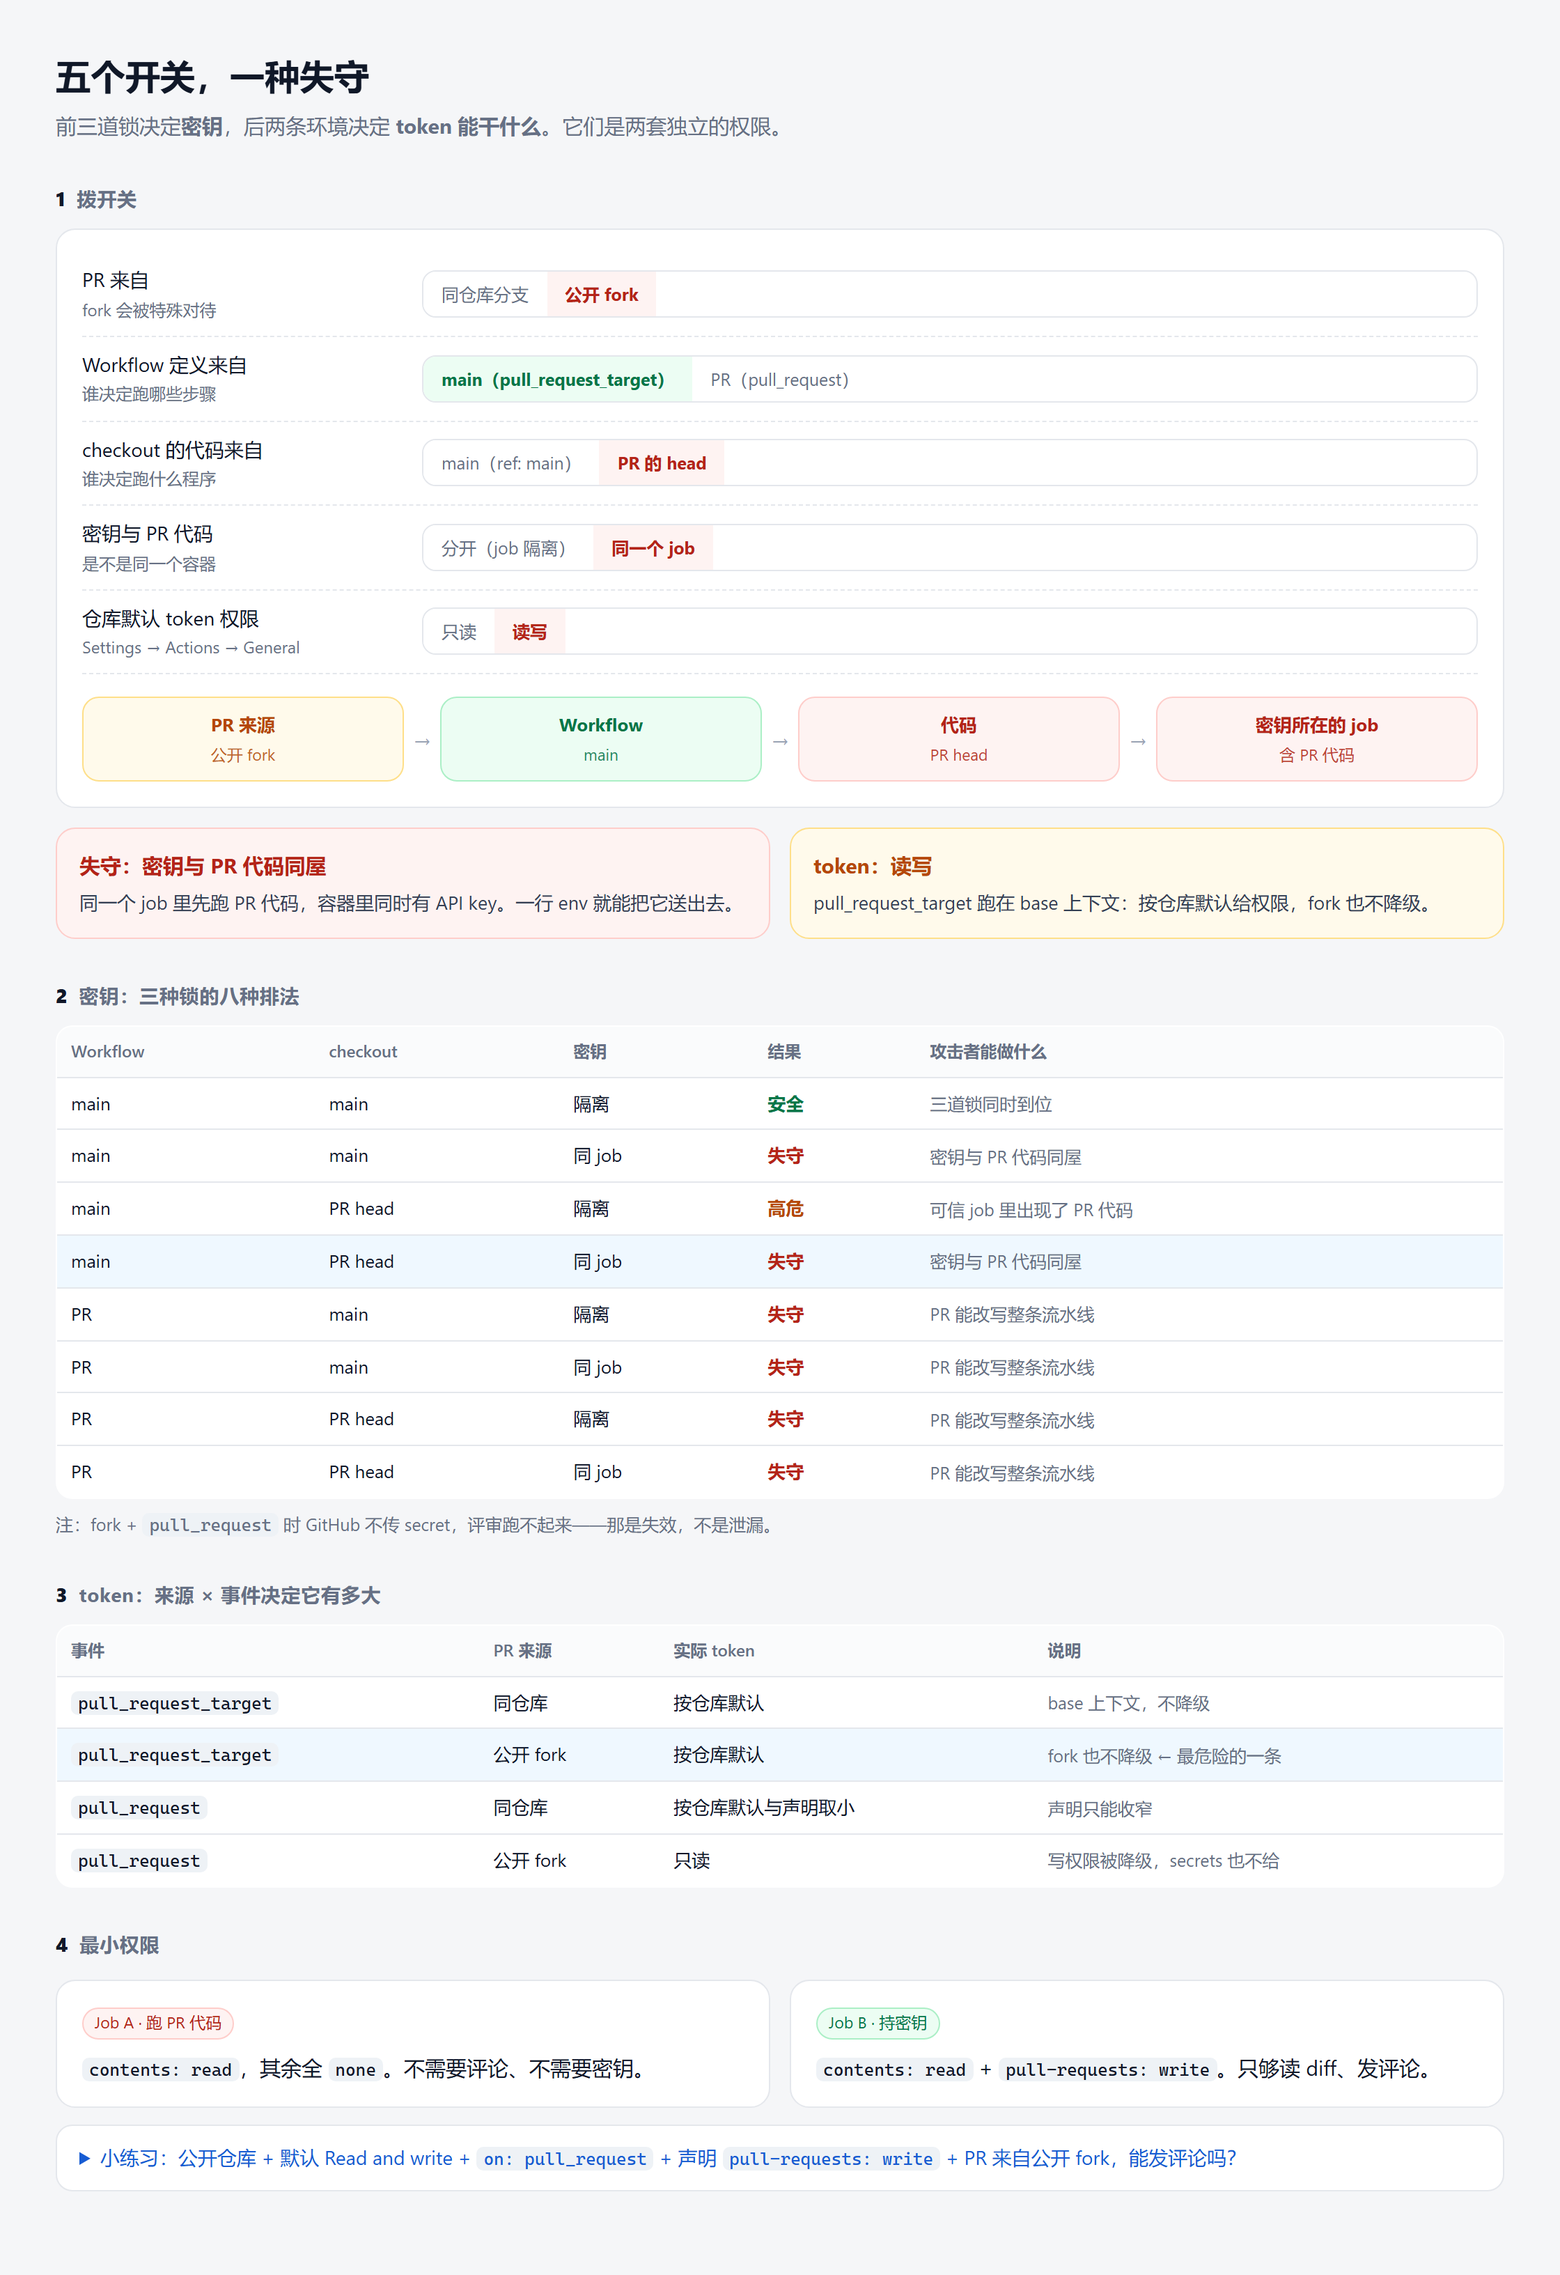
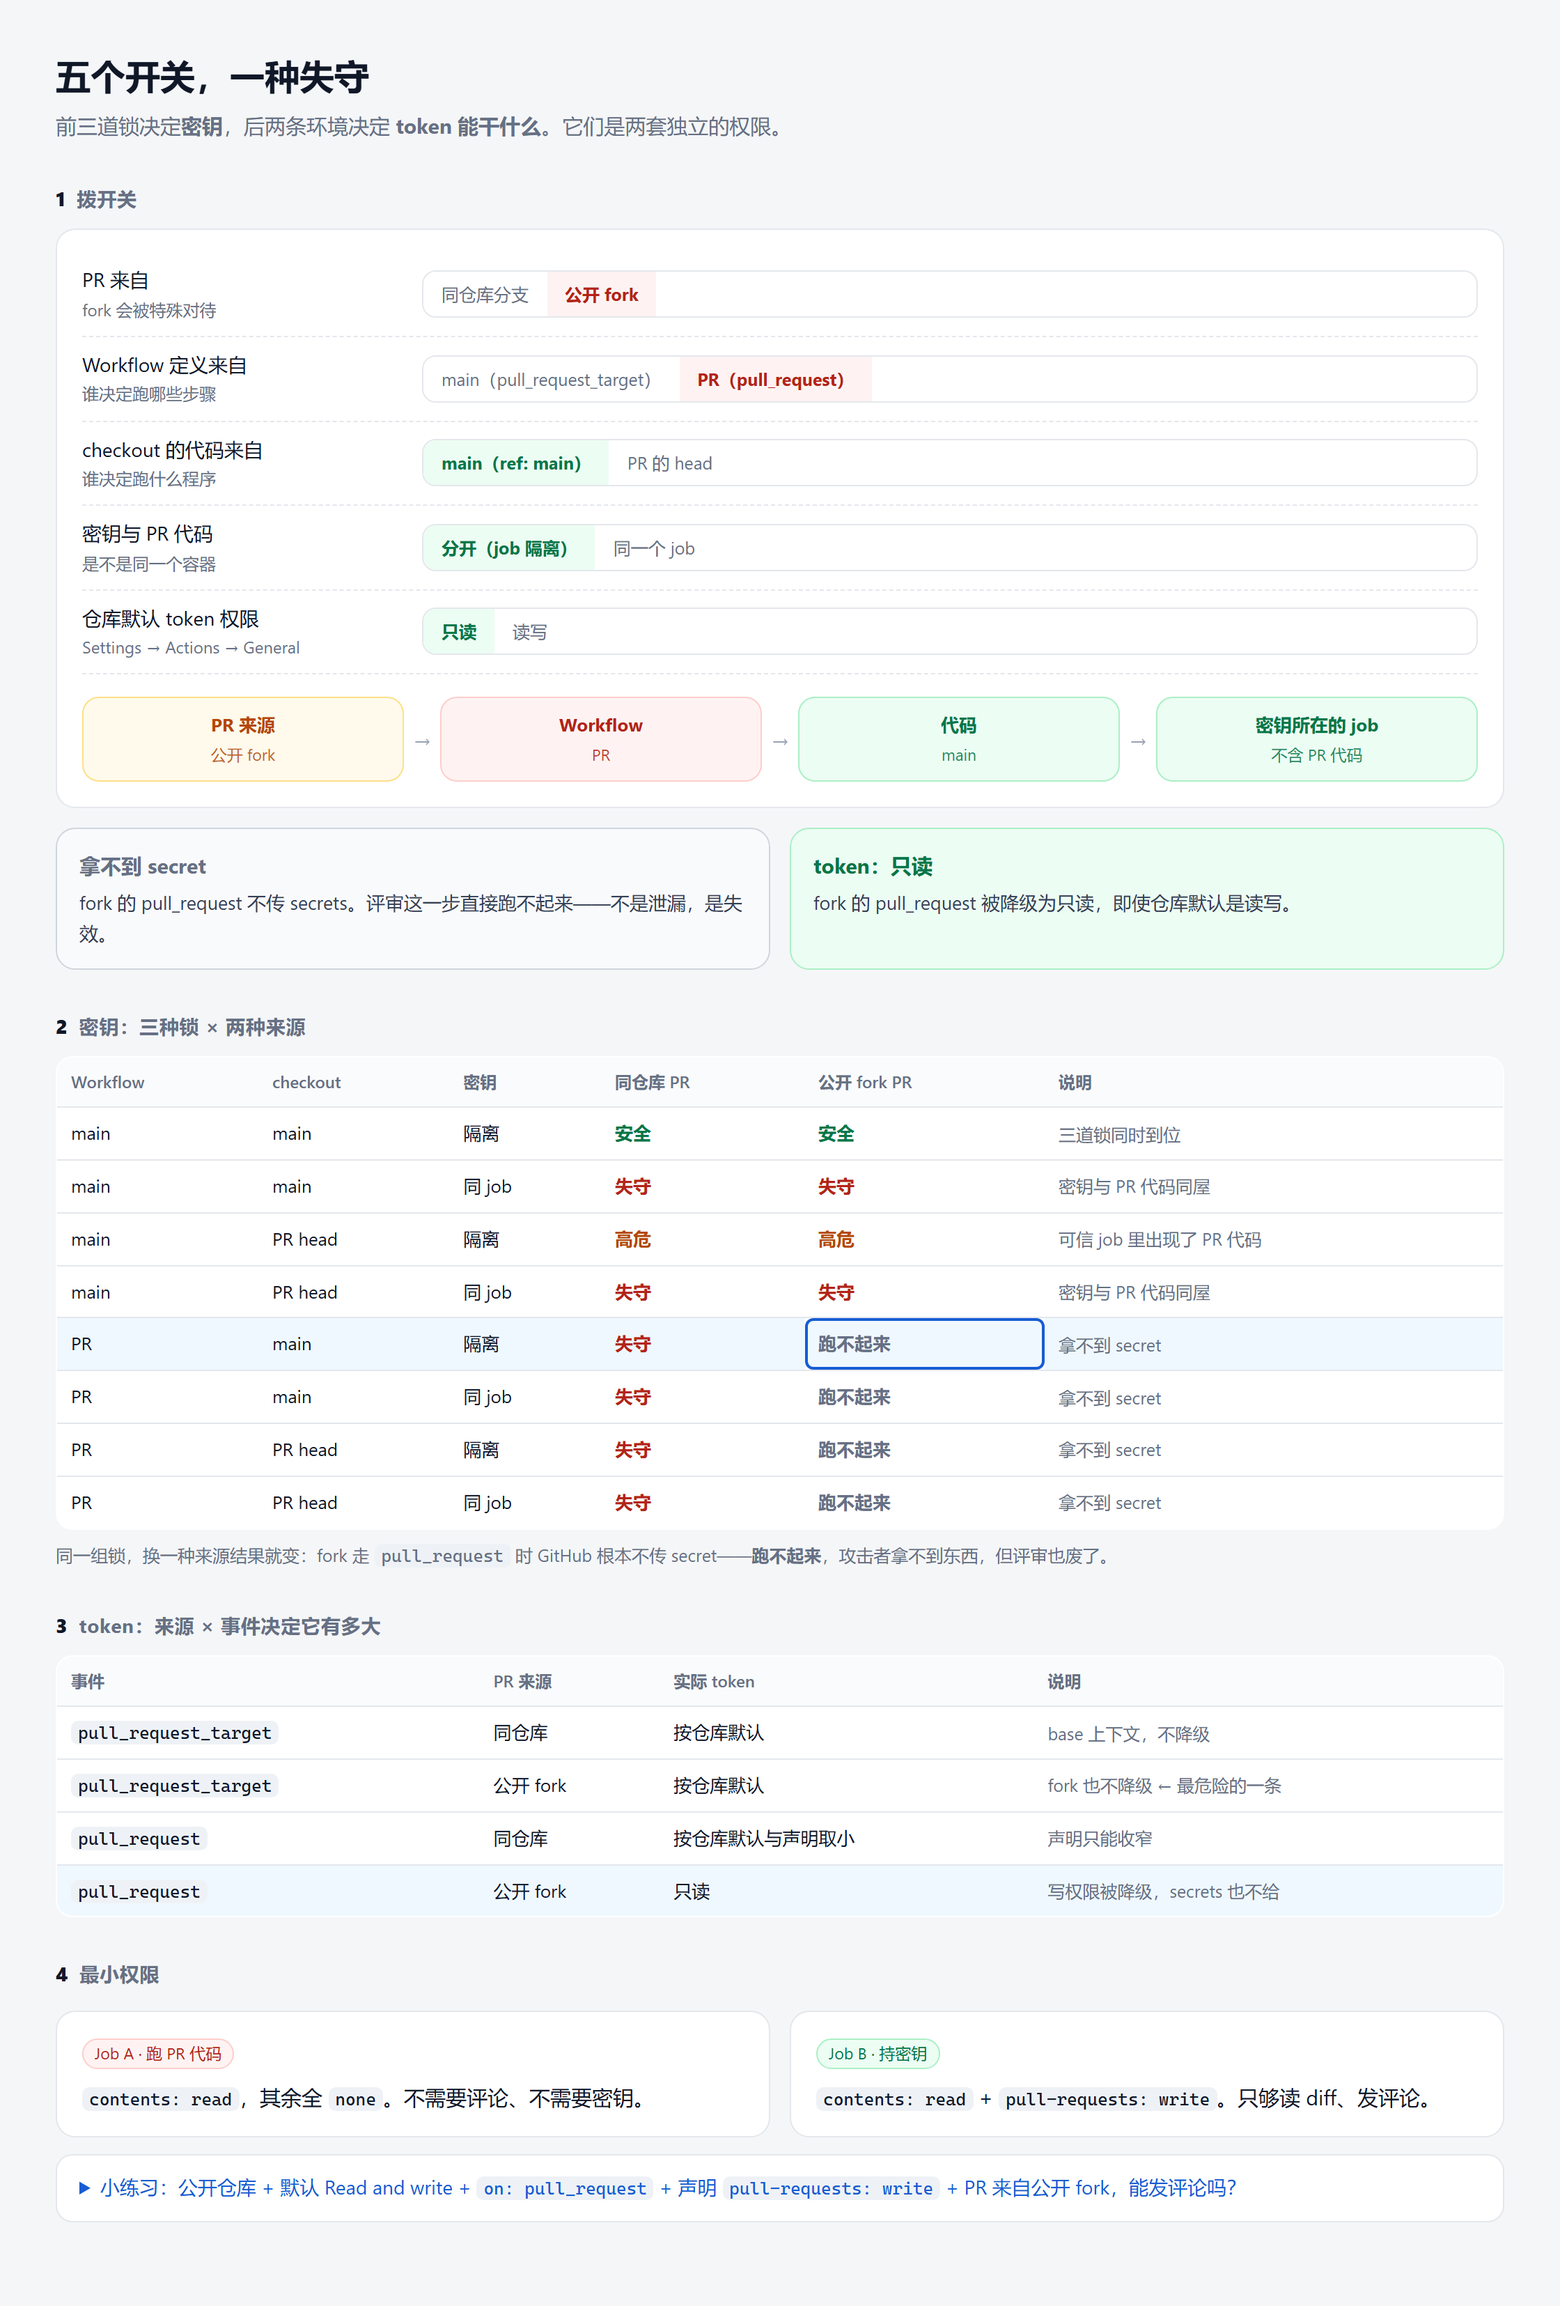
docs: show the fork case in the secret matrix instead of a footnote

diff --git a/docs/review-trust-switches.html b/docs/review-trust-switches.html
@@ -53,6 +53,7 @@
   th{background:#fafbfc;color:var(--muted);font-weight:600;font-size:12px}
   tr:last-child td{border-bottom:0}
   tr.hl td{background:var(--blue-bg)}
+  td.cur{box-shadow:inset 0 0 0 2px #175cd3;border-radius:6px}
   .c-safe{color:var(--green);font-weight:700}
   .c-risk{color:var(--amber);font-weight:700}
   .c-fatal{color:var(--red);font-weight:700}
@@ -120,12 +121,12 @@
     <div class="verdict" id="vToken"><h3>token</h3><p></p></div>
   </div>
 
-  <h2><b>2</b>密钥：三种锁的八种排法</h2>
+  <h2><b>2</b>密钥：三种锁 × 两种来源</h2>
   <table id="matrix">
-    <thead><tr><th>Workflow</th><th>checkout</th><th>密钥</th><th>结果</th><th>攻击者能做什么</th></tr></thead>
+    <thead><tr><th>Workflow</th><th>checkout</th><th>密钥</th><th>同仓库 PR</th><th>公开 fork PR</th><th>说明</th></tr></thead>
     <tbody></tbody>
   </table>
-  <p class="note" style="margin-top:8px">注：fork + <code>pull_request</code> 时 GitHub 不传 secret，评审跑不起来——那是失效，不是泄漏。</p>
+  <p class="note" style="margin-top:8px">同一组锁，换一种来源结果就变：fork 走 <code>pull_request</code> 时 GitHub 根本不传 secret——<strong>跑不起来</strong>，攻击者拿不到东西，但评审也废了。</p>
 
   <h2><b>3</b>token：来源 × 事件决定它有多大</h2>
   <table id="tokenTable">
@@ -221,7 +222,13 @@
     nS.querySelector('.nval').textContent = state.s ? '不含 PR 代码' : '含 PR 代码';
 
     document.querySelectorAll('#matrix tbody tr').forEach(tr => {
-      tr.classList.toggle('hl', tr.dataset.key === `${state.w}${state.c}${state.s}`);
+      const on = tr.dataset.key === `${state.w}${state.c}${state.s}`;
+      tr.classList.toggle('hl', on);
+      tr.querySelectorAll('td.res-same,td.res-fork').forEach(td => td.classList.remove('cur'));
+      if (on) {
+        const cell = tr.querySelector(state.o ? 'td.res-same' : 'td.res-fork');
+        if (cell) cell.classList.add('cur');
+      }
     });
     document.querySelectorAll('#tokenTable tbody tr').forEach(tr => {
       tr.classList.toggle('hl', tr.dataset.key === `${state.w}${state.o}`);
@@ -244,12 +251,14 @@
     const tbody = document.querySelector('#matrix tbody');
     const L = { w: ['main', 'PR'], c: ['main', 'PR head'], s: ['隔离', '同 job'] };
     for (let w = 1; w >= 0; w--) for (let c = 1; c >= 0; c--) for (let s = 1; s >= 0; s--) {
-      const r = evaluate({ o: 1, w, c, s, d: 0 });
+      const same = evaluate({ o: 1, w, c, s, d: 0 }).secret;
+      const fork = evaluate({ o: 0, w, c, s, d: 0 }).secret;
       const tr = document.createElement('tr');
       tr.dataset.key = `${w}${c}${s}`;
       tr.innerHTML = `<td>${L.w[1 - w]}</td><td>${L.c[1 - c]}</td><td>${L.s[1 - s]}</td>
-        <td class="${LEVEL[r.secret.level].cell}">${LEVEL[r.secret.level].text}</td>
-        <td class="note">${r.secret.title.split('：').pop()}</td>`;
+        <td class="${LEVEL[same.level].cell} res-same">${LEVEL[same.level].text}</td>
+        <td class="${LEVEL[fork.level].cell} res-fork">${LEVEL[fork.level].text}</td>
+        <td class="note">${fork.title !== same.title ? fork.title.split('：').pop() : same.title.split('：').pop()}</td>`;
       tbody.appendChild(tr);
     }
   }
